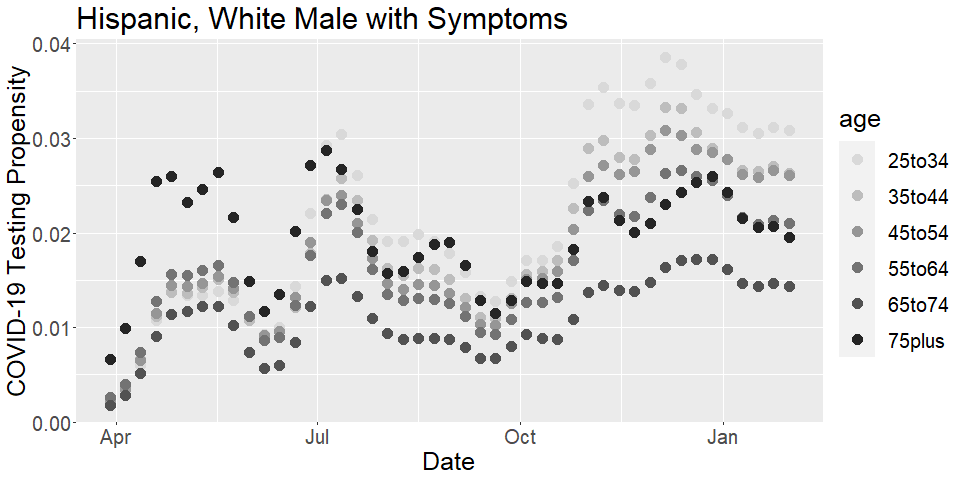
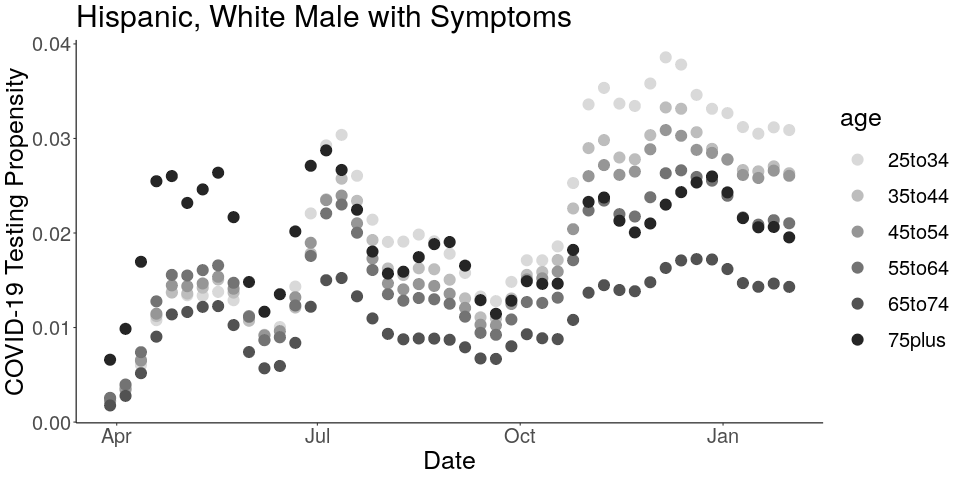
White background on figures with many categories to enhance visuals

diff --git a/write-up/letters/response-ref-1-v1.tex b/write-up/letters/response-ref-1-v1.tex
@@ -92,7 +92,7 @@ We have added the floor of weekly case counts divided by population size to the 
 \item {\it I found the grey hard to differentiate for the figures that have more than two categories – perhaps varying the shapes would help if trying to keep these grey-scale?}
 
 \vspace{5mm}
-We have added shapes in each figure with more than two categories to help differentiate each curve while keeping them grey-scale to match AOAS figure guidelines.
+We tested a variety of means to differentiate among categories in figures with more than two categories.  We found varied shapes made the plots much harder to understand in settings with significant overlap.  Therefore, we opted to simply remove the gray background.  The white background helps with differentiation while keeping the figures in grey-scale to match AOAS figure guidelines.
 \vspace{5mm}
 
 \end{enumerate}
